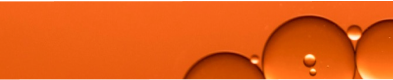
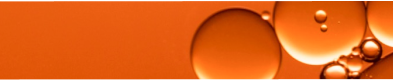
Home page desktop finish
Replacing some images to get transparent background

diff --git a/index.html b/index.html
@@ -42,54 +42,66 @@
       </div >
     </header>
     <main>
-        <section>
-            <img src="assets/images/desktop_background_home.png" alt="Background image, orange bubbles made my dropping oil in water" class="desktop-small-background-home">
-            <img src="assets/images/mobile_background_home.png" alt="Background image, orange bubbles made my dropping oil in water" class="mobile-small-background-home">
-            <h1>Explore together</h1>
-            <p>Welcome to Oslo Science Museum!</p>
-            <p>We work to make sience fun and  interesting for everyone</p>
-            <p>Immerse yourself in the wonders of our discoveries, sparking a lifelong passion for exploring the world.</p>
+        <section class="home-intro">
+            <img src="assets/images/desktop_background_home.png" alt="Background image, orange bubbles made my dropping oil in water" class="desktop-background-home">
+            <img src="assets/images/mobile_background_home.png" alt="Background image, orange bubbles made my dropping oil in water" class="mobile-background-home">
+            <div class="home-intro-text">
+              <h1 class="home-h1">Explore together</h1>
+              <p class="home-p1">Welcome to Oslo Science Museum!</p>
+              <p class="home-p2">We work to make sience fun and  interesting for everyone.</p>
+              <p class="home-p3">Immerse yourself in the wonders of our discoveries, sparking a lifelong passion for exploring the world.</p>
+            </div>
         </section>
-        <div class="page-divider-large">
-           <img src="assets/robots/robot_home.jpg" alt="Cute little grey and blue robot doing science stuff, the mascot for Oslo Science Museum">
-        </div>
-        <section>
-            <div>
-                <p>Exploration for kids</p>
-                <p>Dive into science at our museum! Experience Newtonian physics, encounter a Woolly Mammoth, and engage with  exhibits. Join Young Stars every Saturday (10:00-13:00) and explore themed holiday clubs during breaks.</p>
+        <div class="page-divider-home"></div>
+        <section class="exploration">
+            <div class="exploration-info">
+                <p class="h3">Exploration for kids</p>
+                <p>Dive into science at our museum! Experience Newtonian physics, encounter a Woolly Mammoth, and engage with  exhibits.</p> 
+                <p>Young Stars every Saturday (10:00-13:00) and explore themed holiday clubs during breaks.</p>
                 <p>Message us for details!</p>
             </div>
-            <div>
-                <p>Exploration for teachers</p>
+            <div class="exploration-info">
+                <p class="h3">Exploration for teachers</p>
                 <p>Join us in fostering learning! We offer guided tours, interactive learning in our laboratory, and inspiring video presentations for students.</p>
                 <p>Contact us to schedule a visit for your students!</p>
             </div>
-            <div>
-                <p>Exploration for researchers</p>
+            <div class="exploration-info">
+                <p class="h3">Exploration for researchers</p>
                 <p>Get involved with our researchers! Use our resources, including online records and lab space.</p>
                 <p>We collaborate with universities nationwide!</p>
             </div>
         </section>
-        <section>
-            <div class="page-divider">
-                <h2>Popular Exhibition Spaces</h2>
-            </div>
+        <div class="page-divider-home2">
+              <h2 class="h2-blue">Popular Exhibition Spaces</h2>
+              <img src="assets/robots/robot_home.png" alt="Cute little grey and blue robot doing science stuff, the mascot for Oslo Science Museum" class="robot-desktop">
+        </div>
+        <section class="popular-exhibition">
+          <div>
+            <img src="assets/images/cosmology.png" alt="Beautiful colors found in a galaxy far far away in space" class="popular-image">
+          </div>
+          <div class="popular-exhibition-text">
+            <h3>Cosmology</h3>
+            <p>Discover the cosmos in 'The Sky Above Us' exhibit! Uncover constellations, galaxies, and the history of celestial navigation.</p>
+            <p>Trace the solar exploration journey from Arab traders to modern planetary exploration.</p>
+            <a href="ecology.html" class="button" >Learn more</a>
+          </div>
+        </section>
+        <section class="popular-exhibition">
+          <div class="popular-exhibition-text">
+            <h3>Robotics and AI</h3>
+            <p>The information revolution is here and robotics and artificial intelligence are the science of the future. From useful home applications of AI to industrial uses of robotics, the future is here.</p>
+            <p>You can even say hello and shake the hand of Rob the Robot!</p>
+            <a href="ecology.html" class="button" >Learn more</a>
+          </div>
+          <div>
+            <img src="assets/images/robotics_ai.png" alt="Friendly looking white robot named Rob the robot with large eyes and a tablet on it's chest" class="popular-image">
+          </div>
+        </section>
+        <section class="popular-exhibition">
             <div>
-                <img src="assets/images/cosmology.png" alt="Beautiful colors found in a galaxy far far away in space">
-                <h3>Cosmology</h3>
-                <p>Discover the cosmos in 'The Sky Above Us' exhibit! Uncover constellations, galaxies, and the history of celestial navigation.</p>
-                <p>Trace the solar exploration journey from Arab traders to modern planetary exploration.</p>
-                <a href="ecology.html" class="button" >Learn more</a>
+                <img src="assets/images/ecology.png" alt="Earth inside a greenhouse with half the earth being normal and the other half is covered in grass and plants" class="popular-image">
             </div>
-            <div>
-                <img src="assets/images/robotics_ai.png" alt="Friendly looking white robot named Rob the robot with large eyes and a tablet on it's chest">
-                <h3>Robotics and AI</h3>
-                <p>The information revolution is here and robotics and artificial intelligence are the science of the future. From useful home applications of AI to industrial uses of robotics, the future is here.</p>
-                <p>You can even say hello and shake the hand of Rob the Robot!</p>
-                <a href="ecology.html" class="button" >Learn more</a>
-            </div>
-            <div>
-                <img src="assets/images/ecology.png" alt="Earth inside a greenhouse with half the earth being normal and the other half is covered in grass and plants">
+            <div class="popular-exhibition-text">
                 <h3>Ecology</h3>
                 <p>Explore a sustainable future in our ecology section! Unpack challenges like global warming, species extinction, and pollution, while discovering positive ways to contribute to a brighter planet.</p>
                 <p>Join us in understanding and advocating for a healthier Earth.</p>

diff --git a/css/reset.css b/css/reset.css
@@ -15,15 +15,19 @@ h2 {
     font-size: 18px;
 }
 
-h3 {
+h3, .h3 {
     font-size: 16px;
 }
 
-p {
-    font-size: 14px;
+h3 {
+    color: #D94F0C;
 }
 
-h2, h3, p, li, a {
+p {
+    font-size: 15px;
+}
+
+h2, h3, p, li, a, .h3 {
     font-family: 'Manrope';
 }
 
@@ -39,7 +43,7 @@ h2, h3, p, li, a {
     font-size: 35px;
 }
 
-h1, nav li, .nav-desktop, .nav-mobile, nav a:visited, nav a:link, .hamburger-icon {
+h1, nav li, .nav-desktop, .nav-mobile, nav a:visited, nav a:link, .hamburger-icon, .h2-blue, .page-intro {
     color: #0B2344;
 }
 
@@ -67,6 +71,7 @@ h1, nav li, .nav-desktop, .nav-mobile, nav a:visited, nav a:link, .hamburger-ico
     top: 80px;
     width: 100%;
     box-shadow: 0px 4px rgb(0, 0, 0, .30);
+    z-index: 2;
 }
 
 .nav-mobile, header, .footerlogo, .footer-links, .footer-social, .footer-links {
@@ -82,8 +87,11 @@ header, footer, .footerlogo, .footer-links, .footer-social {
     display: flex;
 }
 
-nav a, nav li, footer li, footer a {
+nav a, nav li, footer li, footer a, a {
     text-decoration: none;
+}
+
+nav a, nav li, footer li, footer a {
     font-weight: bold;
 }
 
@@ -121,7 +129,7 @@ footer a:visited, footer a:link, footer p, #social-icons, .nav-mobile a:hover{
 .page-intro {
     position: relative;
     text-align: left;
-    color: #0B2344;
+    z-index: 1;
 }
 
 .page-intro-h1 {
@@ -132,11 +140,23 @@ footer a:visited, footer a:link, footer p, #social-icons, .nav-mobile a:hover{
     padding-top: 15px;
 }
 
+.page-divider-home, .page-divider-home2 {
+    background-color: #EDEFEF;
+}
+
+.button {
+    background: #D94F0C;
+    color: black;
+    padding: 10px 30px;
+    border-radius: 15px;
+    font-size: 15px;
+}
+
 
 
 /*mobile and small tablets*/
 @media screen and (min-width: 300px) and (max-width: 600px){
-    .nav-desktop, .nav-mobile, .desktop-small-background, .desktop-small-background-home {
+    .nav-desktop, .nav-mobile, .desktop-small-background, .desktop-background-home {
         display: none;
     }
 
@@ -209,7 +229,7 @@ footer a:visited, footer a:link, footer p, #social-icons, .nav-mobile a:hover{
 
 /*smaller and lagrer tablets*/
 @media screen and (min-width: 601px) and (max-width: 900px){
-    .nav-desktop, .nav-mobile, .desktop-small-background, .desktop-small-background-home{
+    .nav-desktop, .nav-mobile, .desktop-small-background, .desktop-background-home{
         display: none;
     }
 
@@ -240,7 +260,7 @@ footer a:visited, footer a:link, footer p, #social-icons, .nav-mobile a:hover{
 
 /*laptop and desktop*/
 @media screen and (min-width: 901px) and (max-width: 20000px){
-    .nav-mobile, .hamburger-menu:has(#menu-checkbox:checked) ~ .nav-mobile, .hamburger-icon, .mobile-small-background, .mobile-small-background-home  {
+    .nav-mobile, .hamburger-menu:has(#menu-checkbox:checked) ~ .nav-mobile, .hamburger-icon, .mobile-small-background, .mobile-background-home  {
         display: none;
     }
 
@@ -282,16 +302,20 @@ footer a:visited, footer a:link, footer p, #social-icons, .nav-mobile a:hover{
         height: 130px;
     }
 
-    .mobile-small-background, .mobile-small-background-home {
+    .mobile-small-background, .mobile-background-home {
         display: none;
     }
 
     .robot-desktop {
-        width: 120px;
+        width: 70px;
     }
 
     p {
         font-size: 14px;
+    }
+
+    .page-divider-home {
+        padding: 40px;
     }
 
 

diff --git a/css/index.css b/css/index.css
@@ -1,0 +1,98 @@
+.desktop-background-home {
+    width: 100%;
+    height: 550px;
+}
+
+.home-intro {
+    position: relative;
+}
+
+.home-intro-text {
+    position: absolute;
+    top: 65px;
+}
+
+.home-intro-text p {
+    font-size: 18px;
+    color: #0B2344;
+    max-width: 60%;
+    padding-top: 10px;
+}
+
+.home-h1 {
+    margin-left: 200px;
+    padding-bottom: 30px;
+}
+
+.home-p1, .home-p3 {
+    margin-left: 70px ;
+}
+
+.home-p2 {
+    margin-left: 150px;
+}
+
+.page-divider-home {
+    margin-top: -4px;
+}
+
+.h2-blue {
+    margin-left: 70px;
+}
+
+.page-divider-home2 {
+    display: flex;
+    justify-content: space-between;
+    align-items: center;
+}
+
+.robot-desktop {
+    margin-right: 70px;
+}
+
+.exploration {
+    display: flex;
+    gap: 80px;
+    justify-content: center;
+    margin: 0px 70px;
+    height: 350px;
+}
+
+.exploration-info {
+    flex: 1;
+    background-color: #0B2344;
+    color: white;
+    padding-top: 30px;
+}
+
+.exploration-info p {
+    margin: 10px 40px;
+    line-height: 30px;
+}
+
+.h3 {
+    font-weight: bold;
+    padding-bottom: 20px;
+    font-size: 17px;
+}
+
+.popular-image {
+    width: 650px;
+}
+
+.popular-exhibition {
+    display: flex;
+    align-items: center;
+    flex: 1;
+    margin: 0px 30px;
+    padding-bottom: 60px;
+}
+
+.popular-exhibition-text {
+    margin-left: 25px;
+    line-height: 35px;
+    padding: 20px;
+}
+
+
+

diff --git a/visit&contact.html b/visit&contact.html
@@ -74,8 +74,8 @@
         <p>There are guided tours of the museum that leave every hour. These tours are 70 NOK per person and include a handy printed guide of the museum.</p>
         <p>If you would like to organise a guided tour for your group of 6 or more people, please contact us to arrange the tour.</p>
         <p><b>Address:</b> Something Road 3, 0100 Oslo</p>
-        <img src="assets/robots/robot_visit_contact1.jpg" alt="Cute little grey and blue robot doing science stuff, the mascot for Oslo Science Museum">
-        <img src="assets/robots/robot_visit_contact2.jpg" alt="Small and cute illustration with a screen showing a science exhibit with various test tubes in font. Rob the Robot's stuff.">
+        <img src="assets/robots/robot_visit_contact1.png" alt="Cute little grey and blue robot doing science stuff, the mascot for Oslo Science Museum">
+        <img src="assets/robots/robot_visit_contact2.png" alt="Small and cute illustration with a screen showing a science exhibit with various test tubes in font. Rob the Robot's stuff.">
       </section>
       <section>
         <div>

diff --git a/exhibitions.html b/exhibitions.html
@@ -74,7 +74,7 @@
             </div>
             <div>
                 <img src="assets/images/special_events_exhibitions .png" alt="A ball of atoms illustrated with white and orange balls that looks like balloons">
-                <img src="assets/robots/robot_exhibitions.jpg" alt="Cute little grey and blue robot doing science stuff, the mascot for Oslo Science Museum">
+                <img src="assets/robots/robot_exhibitions.png" alt="Cute little grey and blue robot doing science stuff, the mascot for Oslo Science Museum">
                 <h2>OSM Special Events and Exhibitions </h2>
             </div>
         </section>

diff --git a/get-involved.html b/get-involved.html
@@ -49,7 +49,7 @@
         </section>
         <section>
             <p>Whether supporting projects or education, your involvement helps ignite a lifelong passion for exploring the world around us. Join us in building a legacy of discovery and positive impact!</p>
-            <img src="assets/robots/robot_contribution.jpg" alt="Cute little grey and blue robot doing science stuff, the mascot for Oslo Science Museum">
+            <img src="assets/robots/robot_contriution.png" alt="Cute little grey and blue robot doing science stuff, the mascot for Oslo Science Museum">
         </section>
         <section>
             <div>

diff --git a/ecology.html b/ecology.html
@@ -63,7 +63,7 @@
         <section>
             <div>
                 <p>This exhibition is  for everyone, offering insights and inspiration to become stewards of our planet's well-being</p>
-                <img src="assets/robots/robot_selected_exhibition.jpg" alt="Cute little grey and blue robot doing science stuff, the mascot for Oslo Science Museum">
+                <img src="assets/robots/robot_selected_exhibition.png" alt="Cute little grey and blue robot doing science stuff, the mascot for Oslo Science Museum">
             </div>
             <div>
                 <p>What will you learn?</p>
